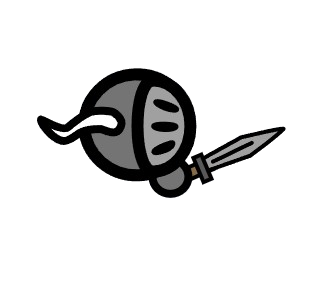
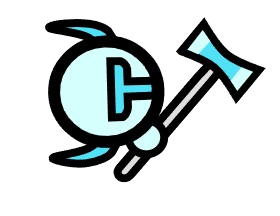
added ice tower

diff --git a/tower defense.py b/tower defense.py
@@ -26,7 +26,7 @@ if True:
     archer = pygame.image.load('graphics/archer.png')
     archer = pygame.transform.scale(archer, (towersWidth, towersHeight))
     knight = pygame.image.load('graphics/knight.png')
-    knight = pygame.transform.scale(knight, (towersWidth, towersHeight))
+    knight = pygame.transform.scale(knight, (towersWidth + 20, towersHeight))
 LOOP_CENTER, LOOP_RADIUS = (600, 405), 210  
 
 
@@ -43,7 +43,7 @@ for i in range(100):
 wayPoints = ([(0, 195), (400, 195)] + loop_points + [(800, 620), (1200, 620)])
 
 class Tower:
-    def __init__ (Tower, towerX, towerY, width, height, towerType = None, sellerType = False, sellerCost = 0, angle = 0):
+    def __init__ (Tower, towerX, towerY, width, height, towerType = None, sellerType = False, sellerCost = 0, angle = 0, cooldown = 0):
         Tower.x = towerX
         Tower.y = towerY
         Tower.type = towerType
@@ -52,10 +52,11 @@ class Tower:
         Tower.w = width
         Tower.h = height
         Tower.angle = angle
+        Tower.cooldown = cooldown
         Tower.rect = (pygame.Rect(towerX, towerY, width, height))
 
 class Enemy:
-    def __init__(Enemy, health, enemyType, speed, x, y, damage, wait):
+    def __init__(Enemy, health, enemyType, speed, x, y, damage, wait, frozen = 0):
         Enemy.health = health
         Enemy.type = enemyType
         Enemy.speed = speed
@@ -65,6 +66,7 @@ class Enemy:
         Enemy.wayPointIndex = 0
         Enemy.damage = damage
         Enemy.wait = wait
+        Enemy.frozen = frozen
 
 
     def move(Enemy):
@@ -290,12 +292,38 @@ while running:
                 rotated_image = pygame.transform.rotate(archer, tower.angle)
                 rotated_rect = rotated_image.get_rect(center=tower.rect.center)
                 screen.blit(rotated_image, rotated_rect)
-  
-                
-                    
 
             elif tower.type == "short":
-                screen.blit(knight, tower.rect)
+                #screen.blit(knight, tower.rect)
+                if tower.cooldown > 0:
+                    tower.cooldown -= 1
+                elif not tower.rect == towers[-1].rect or placing == False:
+                    first_enemy = None
+                    best_progress = -1
+                    for enemy in enemies:
+                        if math.hypot(tower.x - enemy.x, tower.y - enemy.y) < 200:
+                            if not enemy.health <= 0 and not enemy.type == "skeletonKing":
+                                targetX, targetY = wayPoints[enemy.wayPointIndex]
+                                dist_to_next = math.hypot(targetX - enemy.x, targetY - enemy.y)
+                                progress = enemy.wayPointIndex * 10000 - dist_to_next
+                                if progress > best_progress:
+                                    best_progress = progress
+                                    first_enemy = enemy
+                            
+                    for enemy in enemies:
+                            if enemy == first_enemy and not enemy.health <= 0:
+                                enemy.frozen = 60
+                                tower.cooldown = 120
+                                targetX = enemy.x
+                                targetY = enemy.y
+                                dx = targetX - tower.rect.centerx
+                                dy = targetY - tower.rect.centery
+                                angle = math.degrees(math.atan2(-dy, dx))
+                                tower.angle = angle
+                
+                rotated_image = pygame.transform.rotate(knight, tower.angle)
+                rotated_rect = rotated_image.get_rect(center=tower.rect.center)
+                screen.blit(rotated_image, rotated_rect)
             elif tower.type == "area":
                 screen.blit(wizard, tower.rect)
                 if not tower.rect == towers[-1].rect or placing == False:
@@ -305,28 +333,14 @@ while running:
                         if math.hypot(tower.x - enemy.x, tower.y - enemy.y) < 120 and tick % 6 == 0:
                             enemy.health -= 1
     weapons = []
-    """for tower in towers:
-        if tower.type == "seller":
-            if tower.sellerType == "range":
-                screen.blit(archer, tower.rect)
-            elif tower.sellerType == "short":
-                screen.blit(knight, tower.rect)
-            elif tower.sellerType == "seller":
-                pygame.draw.rect(screen, (0, 255, 255), tower.rect)
-            elif tower.sellerType == "area":
-                screen.blit(wizard, tower.rect)
-        else:
-            if tower.type == "range":
-                screen.blit(archer, tower.rect)
-            elif tower.type == "short":
-                screen.blit(knight, tower.rect)
-            elif tower.type == "area":
-                screen.blit(wizard, tower.rect)"""
     for enemy in enemies:
         if enemy.health <= 0:
             enemies.pop(enemies.index(enemy))
             cash += 15
-        enemy.move()
+        if enemy.frozen == 0:
+            enemy.move()
+        else:
+            enemy.frozen -= 1
     
         if enemy.x == 1200 and enemy.y == 620:
             enemies.pop(enemies.index(enemy))